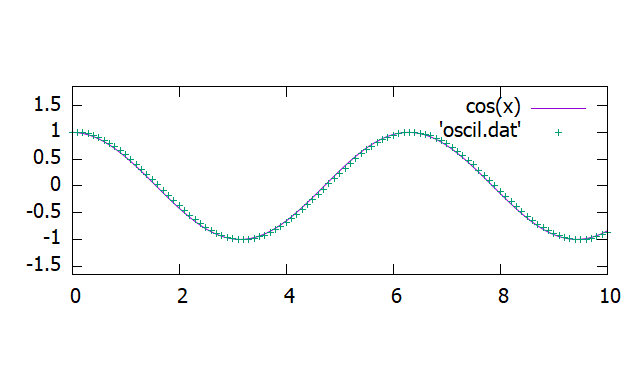
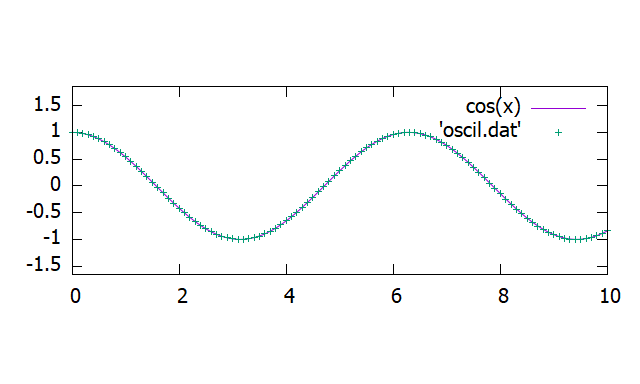
Fix leap-frog initial condition

diff --git a/cpp/numeric_calculation/leap-frog/oscil.cpp b/cpp/numeric_calculation/leap-frog/oscil.cpp
@@ -5,14 +5,15 @@
 using namespace std;
 
 int main() {
-    double v = 0.0, x = 1.0, t = 0.0, dt = 0.1;
+    double v = 0.0, x = 1.0, t = 0.0, dt = 0.1, dt2 = dt * 0.5, t2 = dt2;
+    v += -x * dt * 0.5;
     string s;
     s += to_string(t) + " " + to_string(x) + "\n";
     for (int n = 0; n < 100; n++) {
         t = dt * double(n + 1);
         x += v * dt;
         s += to_string(t) + " " + to_string(x) + "\n";
-        t = dt * double(n + 1.0 + 0.5);
+        t2 = dt * double(n + 1.0 + 0.5);
         v += -x * dt;
     }
     string fpath = "../out/leap-frog/oscil.dat";
